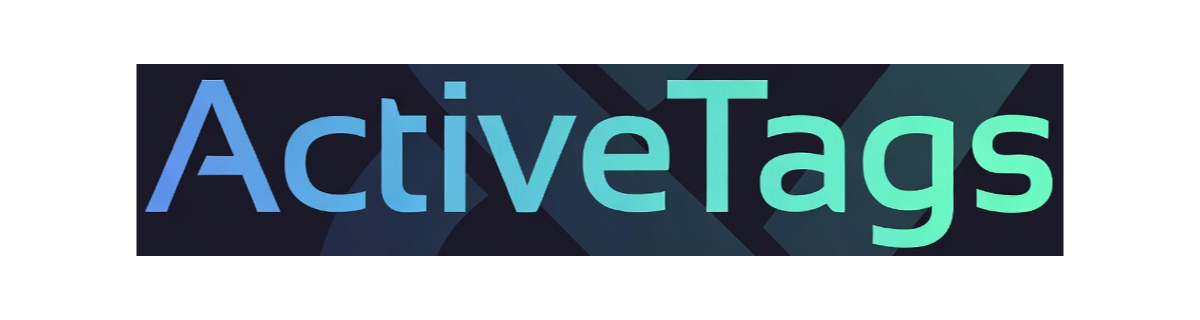
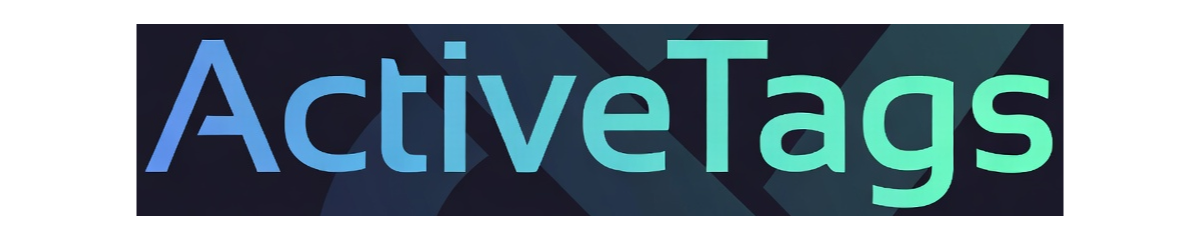
readme

diff --git a/README.md b/README.md
@@ -15,7 +15,7 @@ Low-level JavaScript primitives and systems tooling built from 25+ years of prod
 ### ActiveTags & M7-JS Ecosystem
 
 <a href="./M7-JS-LIB.md">
-  <img src="./assets/activetags-banner.png" alt="ActiveTags Banner" width="900" height="240" />
+  <img src="./assets/activetags-banner.png" alt="ActiveTags Banner" width="900" />
 </a>
 
 Deterministic DOM workflow orchestration and modular runtime architecture for building interactive browser apps without hard framework lock-in.
@@ -23,7 +23,7 @@ Deterministic DOM workflow orchestration and modular runtime architecture for bu
 ### Siglatch
 
 <a href="./SIGLATCH.md">
-  <img src="./assets/siglatch-banner.png" alt="Siglatch Banner" width="900" height="240" />
+  <img src="./assets/siglatch-banner.png" alt="Siglatch Banner" width="900" />
 </a>
 
 Security-first C daemon for cryptographically authenticated control and signaling over UDP in low-footprint, high-control operating environments.
